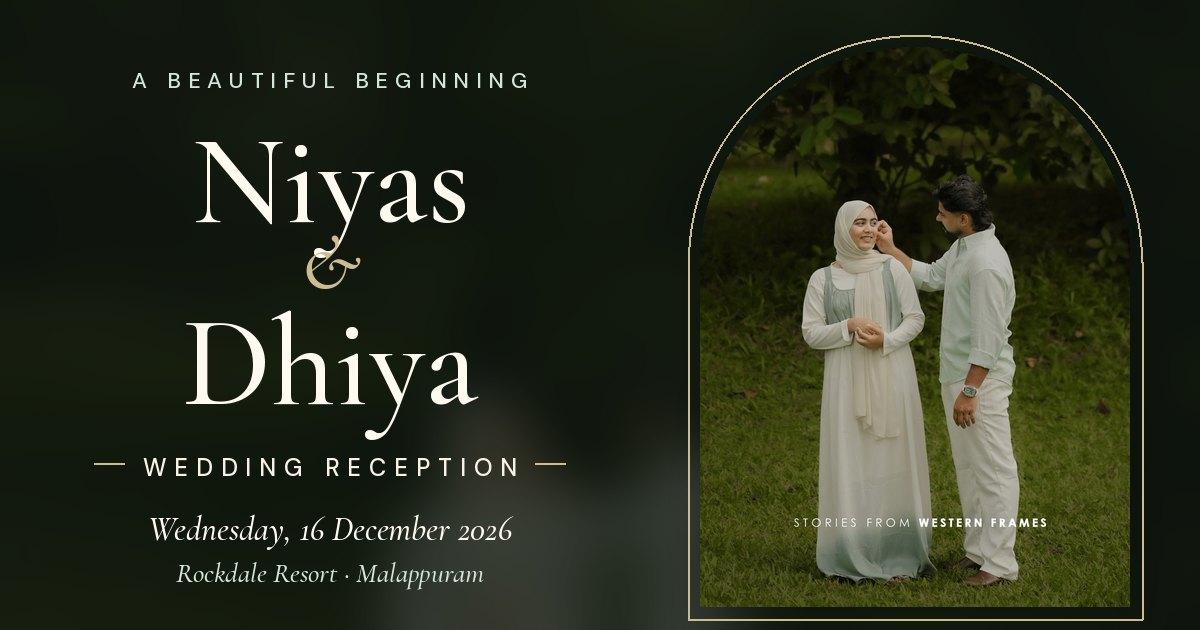
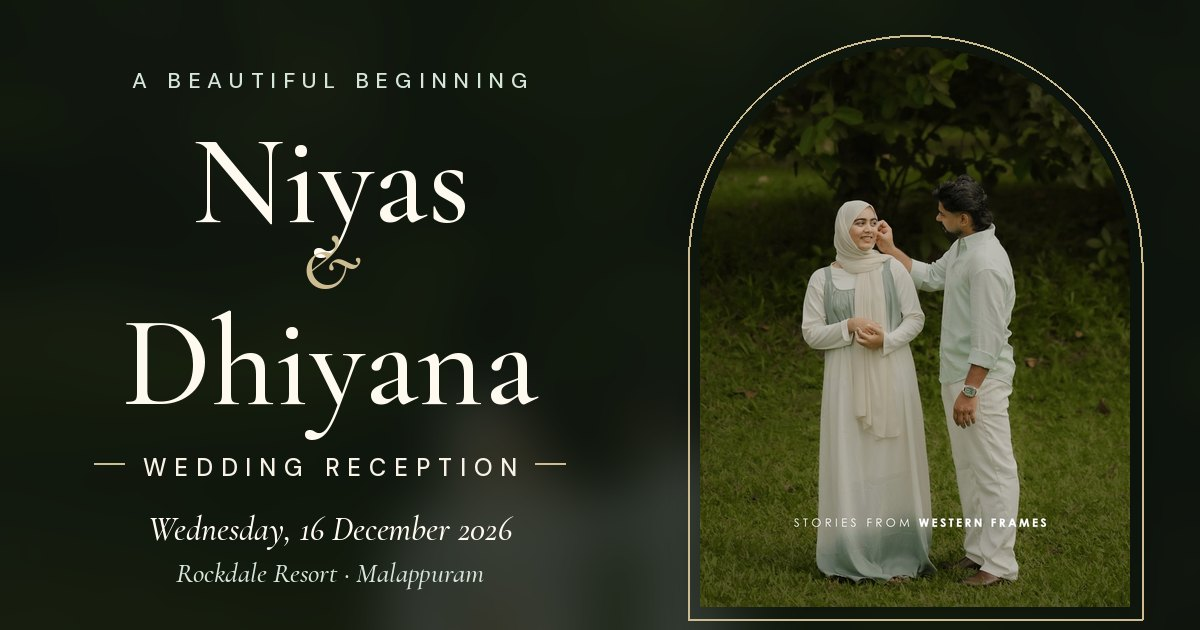
Update wedding invitation

Changed region(s): [[0.0925, 0.4825, 0.4625, 0.6937]]

diff --git a/index.html b/index.html
@@ -5,26 +5,26 @@
   <meta name="viewport" content="width=device-width, initial-scale=1, viewport-fit=cover">
   <meta name="theme-color" content="#F7F1E6">
 
-  <title>Niyas &amp; Dhiya | Wedding Reception</title>
-  <meta name="description" content="Join Niyas and Dhiya as they celebrate their wedding reception at Rockdale Resort, Vadapuram.">
+  <title>Niyas &amp; Dhiyana | Wedding Reception</title>
+  <meta name="description" content="Join Niyas and Dhiyana as they celebrate their wedding reception at Rockdale Resort, Vadapuram.">
 
   <!-- Open Graph / WhatsApp preview (absolute URLs on the live domain) -->
   <meta property="og:type" content="website">
-  <meta property="og:url" content="https://niyas-dhiya.vercel.app/">
-  <link rel="canonical" href="https://niyas-dhiya.vercel.app/">
-  <meta property="og:site_name" content="Niyas &amp; Dhiya">
-  <meta property="og:title" content="Niyas &amp; Dhiya | Wedding Reception">
-  <meta property="og:description" content="Join Niyas and Dhiya as they celebrate their wedding reception at Rockdale Resort, Vadapuram.">
-  <meta property="og:image" content="https://niyas-dhiya.vercel.app/assets/og-image.jpg">
+  <meta property="og:url" content="https://niyas-dhiyana-1.vercel.app/">
+  <link rel="canonical" href="https://niyas-dhiyana-1.vercel.app/">
+  <meta property="og:site_name" content="Niyas &amp; Dhiyana">
+  <meta property="og:title" content="Niyas &amp; Dhiyana | Wedding Reception">
+  <meta property="og:description" content="Join Niyas and Dhiyana as they celebrate their wedding reception at Rockdale Resort, Vadapuram.">
+  <meta property="og:image" content="https://niyas-dhiyana-1.vercel.app/assets/og-image.jpg">
   <meta property="og:image:type" content="image/jpeg">
   <meta property="og:image:width" content="1200">
   <meta property="og:image:height" content="630">
-  <meta property="og:image:alt" content="Niyas and Dhiya beneath a canopy of leaves — Wedding Reception at Rockdale Resort">
+  <meta property="og:image:alt" content="Niyas and Dhiyana beneath a canopy of leaves — Wedding Reception at Rockdale Resort">
   <meta property="og:locale" content="en_IN">
   <meta name="twitter:card" content="summary_large_image">
-  <meta name="twitter:title" content="Niyas &amp; Dhiya | Wedding Reception">
-  <meta name="twitter:description" content="Join Niyas and Dhiya as they celebrate their wedding reception at Rockdale Resort, Vadapuram.">
-  <meta name="twitter:image" content="https://niyas-dhiya.vercel.app/assets/og-image.jpg">
+  <meta name="twitter:title" content="Niyas &amp; Dhiyana | Wedding Reception">
+  <meta name="twitter:description" content="Join Niyas and Dhiyana as they celebrate their wedding reception at Rockdale Resort, Vadapuram.">
+  <meta name="twitter:image" content="https://niyas-dhiyana-1.vercel.app/assets/og-image.jpg">
 
   <link rel="preconnect" href="https://fonts.googleapis.com">
   <link rel="preconnect" href="https://fonts.gstatic.com" crossorigin>
@@ -60,13 +60,13 @@
         <img class="env-pocket" src="assets/opening/envelope.webp" alt="" width="1149" height="2181" fetchpriority="high" decoding="async">
         <div class="env-flap" id="flap">
           <div class="flap-face" aria-hidden="true"></div>
-          <button type="button" class="open-seal" id="open-btn" aria-label="Open the wedding reception invitation of Niyas and Dhiya" aria-describedby="seal-hint">
+          <button type="button" class="open-seal" id="open-btn" aria-label="Open the wedding reception invitation of Niyas and Dhiyana" aria-describedby="seal-hint">
             <span class="seal" aria-hidden="true"><img src="assets/opening/seal.webp" alt="" width="504" height="512"></span>
           </button>
         </div>
       </div>
       <div class="op-text" aria-hidden="true">
-        <p class="op-couple">Niyas <span>&amp;</span> Dhiya</p>
+        <p class="op-couple">Niyas <span>&amp;</span> Dhiyana</p>
       </div>
       <div class="op-text op-text--low">
         <p class="op-invited">You’re Invited</p>
@@ -77,7 +77,7 @@
   </section>
 
   <!-- ============ INVITATION ============ -->
-  <main class="invitation" id="invitation" tabindex="-1" aria-label="Wedding reception invitation of Niyas and Dhiya">
+  <main class="invitation" id="invitation" tabindex="-1" aria-label="Wedding reception invitation of Niyas and Dhiyana">
 
     <!-- Hero: ivory stationery with a botanical garland, chandelier and dressed reception table (as in the original design) -->
     <section class="hero" aria-labelledby="couple-heading">
@@ -92,7 +92,7 @@
         <h1 class="names" id="couple-heading">
           <span class="name reveal reveal--name" style="--d:.4s">Niyas</span>
           <span class="amp reveal" style="--d:.55s"><span class="sr-only">and</span><span aria-hidden="true">&amp;</span></span>
-          <span class="name reveal reveal--name" style="--d:.7s">Dhiya</span>
+          <span class="name reveal reveal--name" style="--d:.7s">Dhiyana</span>
         </h1>
         <p class="hero-function reveal" style="--d:.9s">Wedding Reception</p>
         <p class="hero-quote reveal" style="--d:1.05s">“Together is a beautiful place to be.”</p>
@@ -130,7 +130,7 @@
 
           <article class="family-card reveal" style="--d:.3s" aria-labelledby="bride-name">
             <p class="family-role">The Bride</p>
-            <h3 class="family-name" id="bride-name">Dhiya</h3>
+            <h3 class="family-name" id="bride-name">Dhiyana</h3>
             <p class="family-rel">Daughter of</p>
             <p class="family-parents"><span class="nw">Mr. Abdul Basheer</span> <span class="amp-s">&amp;</span> <span class="nw">Mrs. Mini</span></p>
             <span class="rule" aria-hidden="true"></span>
@@ -152,17 +152,17 @@
         <div class="story-grid">
           <figure class="story-lead reveal reveal--photo">
             <div class="frame" data-parallax="0.06">
-              <img src="assets/couple/WFP02841_1_resized.jpg" srcset="assets/couple/sm/WFP02841_1_resized.jpg 640w, assets/couple/WFP02841_1_resized.jpg 1280w" sizes="(min-width: 900px) 46vw, 92vw" width="1280" height="1920" loading="lazy" decoding="async" alt="Dhiya laughing as she sits on a grassy slope while Niyas leans in close">
+              <img src="assets/couple/WFP02841_1_resized.jpg" srcset="assets/couple/sm/WFP02841_1_resized.jpg 640w, assets/couple/WFP02841_1_resized.jpg 1280w" sizes="(min-width: 900px) 46vw, 92vw" width="1280" height="1920" loading="lazy" decoding="async" alt="Dhiyana laughing as she sits on a grassy slope while Niyas leans in close">
             </div>
           </figure>
           <figure class="story-a reveal reveal--photo" style="--d:.1s">
             <div class="frame">
-              <img src="assets/couple/sm/WFP02765_resized.jpg" srcset="assets/couple/sm/WFP02765_resized.jpg 640w, assets/couple/WFP02765_resized.jpg 1280w" sizes="(min-width: 900px) 24vw, 45vw" width="640" height="960" loading="lazy" decoding="async" alt="Niyas and Dhiya running hand in hand across the lawn">
+              <img src="assets/couple/sm/WFP02765_resized.jpg" srcset="assets/couple/sm/WFP02765_resized.jpg 640w, assets/couple/WFP02765_resized.jpg 1280w" sizes="(min-width: 900px) 24vw, 45vw" width="640" height="960" loading="lazy" decoding="async" alt="Niyas and Dhiyana running hand in hand across the lawn">
             </div>
           </figure>
           <figure class="story-b reveal reveal--photo" style="--d:.2s">
             <div class="frame">
-              <img src="assets/couple/sm/WFP02673_resized.jpg" srcset="assets/couple/sm/WFP02673_resized.jpg 640w, assets/couple/WFP02673_resized.jpg 1280w" sizes="(min-width: 900px) 24vw, 45vw" width="640" height="960" loading="lazy" decoding="async" alt="Niyas and Dhiya in a warm embrace beneath the trees">
+              <img src="assets/couple/sm/WFP02673_resized.jpg" srcset="assets/couple/sm/WFP02673_resized.jpg 640w, assets/couple/WFP02673_resized.jpg 1280w" sizes="(min-width: 900px) 24vw, 45vw" width="640" height="960" loading="lazy" decoding="async" alt="Niyas and Dhiyana in a warm embrace beneath the trees">
             </div>
           </figure>
           <p class="story-caption reveal" style="--d:.15s">Hand in hand, wherever the road may lead.</p>
@@ -299,87 +299,87 @@
         <ul class="gallery-grid" id="gallery-grid" role="list">
         <li class="g-item reveal" style="--d:0.00s">
           <button type="button" class="g-btn" data-index="0" data-full="assets/couple/WFP03053_resized.jpg" aria-label="Open photo 1 of 17 in full screen">
-            <img src="assets/couple/sm/WFP03053_resized.jpg" srcset="assets/couple/sm/WFP03053_resized.jpg 640w, assets/couple/WFP03053_resized.jpg 1280w" sizes="(min-width: 1180px) 370px, (min-width: 760px) 31vw, 46vw" width="640" height="960" loading="lazy" decoding="async" alt="Niyas seated on the mint-green vintage scooter with Dhiya leaning in beside him, both smiling at the camera">
+            <img src="assets/couple/sm/WFP03053_resized.jpg" srcset="assets/couple/sm/WFP03053_resized.jpg 640w, assets/couple/WFP03053_resized.jpg 1280w" sizes="(min-width: 1180px) 370px, (min-width: 760px) 31vw, 46vw" width="640" height="960" loading="lazy" decoding="async" alt="Niyas seated on the mint-green vintage scooter with Dhiyana leaning in beside him, both smiling at the camera">
           </button>
         </li>
         <li class="g-item reveal" style="--d:0.08s">
           <button type="button" class="g-btn" data-index="1" data-full="assets/couple/WFP02765_resized.jpg" aria-label="Open photo 2 of 17 in full screen">
-            <img src="assets/couple/sm/WFP02765_resized.jpg" srcset="assets/couple/sm/WFP02765_resized.jpg 640w, assets/couple/WFP02765_resized.jpg 1280w" sizes="(min-width: 1180px) 370px, (min-width: 760px) 31vw, 46vw" width="640" height="960" loading="lazy" decoding="async" alt="Niyas and Dhiya running hand in hand across the grass">
+            <img src="assets/couple/sm/WFP02765_resized.jpg" srcset="assets/couple/sm/WFP02765_resized.jpg 640w, assets/couple/WFP02765_resized.jpg 1280w" sizes="(min-width: 1180px) 370px, (min-width: 760px) 31vw, 46vw" width="640" height="960" loading="lazy" decoding="async" alt="Niyas and Dhiyana running hand in hand across the grass">
           </button>
         </li>
         <li class="g-item reveal" style="--d:0.16s">
           <button type="button" class="g-btn" data-index="2" data-full="assets/couple/WFP03366_resized.jpg" aria-label="Open photo 3 of 17 in full screen">
-            <img src="assets/couple/sm/WFP03366_resized.jpg" srcset="assets/couple/sm/WFP03366_resized.jpg 640w, assets/couple/WFP03366_resized.jpg 1280w" sizes="(min-width: 1180px) 370px, (min-width: 760px) 31vw, 46vw" width="640" height="960" loading="lazy" decoding="async" alt="Niyas and Dhiya touching foreheads over the scooter’s handlebars on a palm-lined path">
+            <img src="assets/couple/sm/WFP03366_resized.jpg" srcset="assets/couple/sm/WFP03366_resized.jpg 640w, assets/couple/WFP03366_resized.jpg 1280w" sizes="(min-width: 1180px) 370px, (min-width: 760px) 31vw, 46vw" width="640" height="960" loading="lazy" decoding="async" alt="Niyas and Dhiyana touching foreheads over the scooter’s handlebars on a palm-lined path">
           </button>
         </li>
         <li class="g-item reveal" style="--d:0.00s">
           <button type="button" class="g-btn" data-index="3" data-full="assets/couple/WFP02511_resized.jpg" aria-label="Open photo 4 of 17 in full screen">
-            <img src="assets/couple/sm/WFP02511_resized.jpg" srcset="assets/couple/sm/WFP02511_resized.jpg 640w, assets/couple/WFP02511_resized.jpg 1280w" sizes="(min-width: 1180px) 370px, (min-width: 760px) 31vw, 46vw" width="640" height="960" loading="lazy" decoding="async" alt="Niyas and Dhiya standing hand in hand on the lawn, smiling at the camera">
+            <img src="assets/couple/sm/WFP02511_resized.jpg" srcset="assets/couple/sm/WFP02511_resized.jpg 640w, assets/couple/WFP02511_resized.jpg 1280w" sizes="(min-width: 1180px) 370px, (min-width: 760px) 31vw, 46vw" width="640" height="960" loading="lazy" decoding="async" alt="Niyas and Dhiyana standing hand in hand on the lawn, smiling at the camera">
           </button>
         </li>
         <li class="g-item reveal" style="--d:0.08s">
           <button type="button" class="g-btn" data-index="4" data-full="assets/couple/WFP02665_resized.jpg" aria-label="Open photo 5 of 17 in full screen">
-            <img src="assets/couple/sm/WFP02665_resized.jpg" srcset="assets/couple/sm/WFP02665_resized.jpg 640w, assets/couple/WFP02665_resized.jpg 1280w" sizes="(min-width: 1180px) 370px, (min-width: 760px) 31vw, 46vw" width="640" height="960" loading="lazy" decoding="async" alt="Niyas gently adjusting Dhiya’s scarf beneath a canopy of leaves">
+            <img src="assets/couple/sm/WFP02665_resized.jpg" srcset="assets/couple/sm/WFP02665_resized.jpg 640w, assets/couple/WFP02665_resized.jpg 1280w" sizes="(min-width: 1180px) 370px, (min-width: 760px) 31vw, 46vw" width="640" height="960" loading="lazy" decoding="async" alt="Niyas gently adjusting Dhiyana’s scarf beneath a canopy of leaves">
           </button>
         </li>
         <li class="g-item reveal" style="--d:0.16s">
           <button type="button" class="g-btn" data-index="5" data-full="assets/couple/WFP03204_resized.jpg" aria-label="Open photo 6 of 17 in full screen">
-            <img src="assets/couple/sm/WFP03204_resized.jpg" srcset="assets/couple/sm/WFP03204_resized.jpg 640w, assets/couple/WFP03204_resized.jpg 1280w" sizes="(min-width: 1180px) 370px, (min-width: 760px) 31vw, 46vw" width="640" height="960" loading="lazy" decoding="async" alt="Dhiya seated on the scooter, smiling up at Niyas as he stands on the laterite steps">
+            <img src="assets/couple/sm/WFP03204_resized.jpg" srcset="assets/couple/sm/WFP03204_resized.jpg 640w, assets/couple/WFP03204_resized.jpg 1280w" sizes="(min-width: 1180px) 370px, (min-width: 760px) 31vw, 46vw" width="640" height="960" loading="lazy" decoding="async" alt="Dhiyana seated on the scooter, smiling up at Niyas as he stands on the laterite steps">
           </button>
         </li>
         <li class="g-item reveal" style="--d:0.00s">
           <button type="button" class="g-btn" data-index="6" data-full="assets/couple/WFP02483_resized.jpg" aria-label="Open photo 7 of 17 in full screen">
-            <img src="assets/couple/sm/WFP02483_resized.jpg" srcset="assets/couple/sm/WFP02483_resized.jpg 640w, assets/couple/WFP02483_resized.jpg 1280w" sizes="(min-width: 1180px) 370px, (min-width: 760px) 31vw, 46vw" width="640" height="960" loading="lazy" decoding="async" alt="Niyas and Dhiya holding hands and smiling playfully at the camera">
+            <img src="assets/couple/sm/WFP02483_resized.jpg" srcset="assets/couple/sm/WFP02483_resized.jpg 640w, assets/couple/WFP02483_resized.jpg 1280w" sizes="(min-width: 1180px) 370px, (min-width: 760px) 31vw, 46vw" width="640" height="960" loading="lazy" decoding="async" alt="Niyas and Dhiyana holding hands and smiling playfully at the camera">
           </button>
         </li>
         <li class="g-item reveal" style="--d:0.08s">
           <button type="button" class="g-btn" data-index="7" data-full="assets/couple/WFP02832_resized.jpg" aria-label="Open photo 8 of 17 in full screen">
-            <img src="assets/couple/sm/WFP02832_resized.jpg" srcset="assets/couple/sm/WFP02832_resized.jpg 640w, assets/couple/WFP02832_resized.jpg 1280w" sizes="(min-width: 1180px) 370px, (min-width: 760px) 31vw, 46vw" width="640" height="960" loading="lazy" decoding="async" alt="Niyas leaning down to touch foreheads with Dhiya as she sits on a grassy slope">
+            <img src="assets/couple/sm/WFP02832_resized.jpg" srcset="assets/couple/sm/WFP02832_resized.jpg 640w, assets/couple/WFP02832_resized.jpg 1280w" sizes="(min-width: 1180px) 370px, (min-width: 760px) 31vw, 46vw" width="640" height="960" loading="lazy" decoding="async" alt="Niyas leaning down to touch foreheads with Dhiyana as she sits on a grassy slope">
           </button>
         </li>
         <li class="g-item reveal" style="--d:0.16s">
           <button type="button" class="g-btn" data-index="8" data-full="assets/couple/WFP03287_resized.jpg" aria-label="Open photo 9 of 17 in full screen">
-            <img src="assets/couple/sm/WFP03287_resized.jpg" srcset="assets/couple/sm/WFP03287_resized.jpg 640w, assets/couple/WFP03287_resized.jpg 1280w" sizes="(min-width: 1180px) 370px, (min-width: 760px) 31vw, 46vw" width="640" height="960" loading="lazy" decoding="async" alt="Niyas holding Dhiya’s hand as she steps down the laterite steps, the scooter parked in front">
+            <img src="assets/couple/sm/WFP03287_resized.jpg" srcset="assets/couple/sm/WFP03287_resized.jpg 640w, assets/couple/WFP03287_resized.jpg 1280w" sizes="(min-width: 1180px) 370px, (min-width: 760px) 31vw, 46vw" width="640" height="960" loading="lazy" decoding="async" alt="Niyas holding Dhiyana’s hand as she steps down the laterite steps, the scooter parked in front">
           </button>
         </li>
         <li class="g-item reveal" style="--d:0.00s">
           <button type="button" class="g-btn" data-index="9" data-full="assets/couple/WFP02573_resized.jpg" aria-label="Open photo 10 of 17 in full screen">
-            <img src="assets/couple/sm/WFP02573_resized.jpg" srcset="assets/couple/sm/WFP02573_resized.jpg 640w, assets/couple/WFP02573_resized.jpg 1280w" sizes="(min-width: 1180px) 370px, (min-width: 760px) 31vw, 46vw" width="640" height="960" loading="lazy" decoding="async" alt="Dhiya walking ahead and smiling at the camera while Niyas follows behind">
+            <img src="assets/couple/sm/WFP02573_resized.jpg" srcset="assets/couple/sm/WFP02573_resized.jpg 640w, assets/couple/WFP02573_resized.jpg 1280w" sizes="(min-width: 1180px) 370px, (min-width: 760px) 31vw, 46vw" width="640" height="960" loading="lazy" decoding="async" alt="Dhiyana walking ahead and smiling at the camera while Niyas follows behind">
           </button>
         </li>
         <li class="g-item reveal" style="--d:0.08s">
           <button type="button" class="g-btn" data-index="10" data-full="assets/couple/WFP03408_resized.jpg" aria-label="Open photo 11 of 17 in full screen">
-            <img src="assets/couple/sm/WFP03408_resized.jpg" srcset="assets/couple/sm/WFP03408_resized.jpg 640w, assets/couple/WFP03408_resized.jpg 1280w" sizes="(min-width: 1180px) 370px, (min-width: 760px) 31vw, 46vw" width="640" height="960" loading="lazy" decoding="async" alt="Niyas laughing on the scooter as Dhiya playfully pushes it from behind">
+            <img src="assets/couple/sm/WFP03408_resized.jpg" srcset="assets/couple/sm/WFP03408_resized.jpg 640w, assets/couple/WFP03408_resized.jpg 1280w" sizes="(min-width: 1180px) 370px, (min-width: 760px) 31vw, 46vw" width="640" height="960" loading="lazy" decoding="async" alt="Niyas laughing on the scooter as Dhiyana playfully pushes it from behind">
           </button>
         </li>
         <li class="g-item reveal" style="--d:0.16s">
           <button type="button" class="g-btn" data-index="11" data-full="assets/couple/WFP02734_resized.jpg" aria-label="Open photo 12 of 17 in full screen">
-            <img src="assets/couple/sm/WFP02734_resized.jpg" srcset="assets/couple/sm/WFP02734_resized.jpg 640w, assets/couple/WFP02734_resized.jpg 1280w" sizes="(min-width: 1180px) 370px, (min-width: 760px) 31vw, 46vw" width="640" height="960" loading="lazy" decoding="async" alt="Niyas walking behind Dhiya with his hands on her shoulders, both laughing">
+            <img src="assets/couple/sm/WFP02734_resized.jpg" srcset="assets/couple/sm/WFP02734_resized.jpg 640w, assets/couple/WFP02734_resized.jpg 1280w" sizes="(min-width: 1180px) 370px, (min-width: 760px) 31vw, 46vw" width="640" height="960" loading="lazy" decoding="async" alt="Niyas walking behind Dhiyana with his hands on her shoulders, both laughing">
           </button>
         </li>
         <li class="g-item reveal" style="--d:0.00s">
           <button type="button" class="g-btn" data-index="12" data-full="assets/couple/WFP02426_resized.jpg" aria-label="Open photo 13 of 17 in full screen">
-            <img src="assets/couple/sm/WFP02426_resized.jpg" srcset="assets/couple/sm/WFP02426_resized.jpg 640w, assets/couple/WFP02426_resized.jpg 1280w" sizes="(min-width: 1180px) 370px, (min-width: 760px) 31vw, 46vw" width="640" height="960" loading="lazy" decoding="async" alt="Niyas leading Dhiya by the hand across the lawn among tall palms">
+            <img src="assets/couple/sm/WFP02426_resized.jpg" srcset="assets/couple/sm/WFP02426_resized.jpg 640w, assets/couple/WFP02426_resized.jpg 1280w" sizes="(min-width: 1180px) 370px, (min-width: 760px) 31vw, 46vw" width="640" height="960" loading="lazy" decoding="async" alt="Niyas leading Dhiyana by the hand across the lawn among tall palms">
           </button>
         </li>
         <li class="g-item reveal" style="--d:0.08s">
           <button type="button" class="g-btn" data-index="13" data-full="assets/couple/WFP03058_resized.jpg" aria-label="Open photo 14 of 17 in full screen">
-            <img src="assets/couple/sm/WFP03058_resized.jpg" srcset="assets/couple/sm/WFP03058_resized.jpg 640w, assets/couple/WFP03058_resized.jpg 1280w" sizes="(min-width: 1180px) 370px, (min-width: 760px) 31vw, 46vw" width="640" height="960" loading="lazy" decoding="async" alt="Niyas sitting on the scooter with a helmet as Dhiya leans in towards him">
+            <img src="assets/couple/sm/WFP03058_resized.jpg" srcset="assets/couple/sm/WFP03058_resized.jpg 640w, assets/couple/WFP03058_resized.jpg 1280w" sizes="(min-width: 1180px) 370px, (min-width: 760px) 31vw, 46vw" width="640" height="960" loading="lazy" decoding="async" alt="Niyas sitting on the scooter with a helmet as Dhiyana leans in towards him">
           </button>
         </li>
         <li class="g-item reveal" style="--d:0.16s">
           <button type="button" class="g-btn" data-index="14" data-full="assets/couple/WFP02673_resized.jpg" aria-label="Open photo 15 of 17 in full screen">
-            <img src="assets/couple/sm/WFP02673_resized.jpg" srcset="assets/couple/sm/WFP02673_resized.jpg 640w, assets/couple/WFP02673_resized.jpg 1280w" sizes="(min-width: 1180px) 370px, (min-width: 760px) 31vw, 46vw" width="640" height="960" loading="lazy" decoding="async" alt="Niyas and Dhiya in a warm embrace under the trees">
+            <img src="assets/couple/sm/WFP02673_resized.jpg" srcset="assets/couple/sm/WFP02673_resized.jpg 640w, assets/couple/WFP02673_resized.jpg 1280w" sizes="(min-width: 1180px) 370px, (min-width: 760px) 31vw, 46vw" width="640" height="960" loading="lazy" decoding="async" alt="Niyas and Dhiyana in a warm embrace under the trees">
           </button>
         </li>
         <li class="g-item reveal" style="--d:0.00s">
           <button type="button" class="g-btn" data-index="15" data-full="assets/couple/WFP02451_resized.jpg" aria-label="Open photo 16 of 17 in full screen">
-            <img src="assets/couple/sm/WFP02451_resized.jpg" srcset="assets/couple/sm/WFP02451_resized.jpg 640w, assets/couple/WFP02451_resized.jpg 1280w" sizes="(min-width: 1180px) 370px, (min-width: 760px) 31vw, 46vw" width="640" height="960" loading="lazy" decoding="async" alt="Dhiya and Niyas holding hands on the lawn, Dhiya glancing at the camera">
+            <img src="assets/couple/sm/WFP02451_resized.jpg" srcset="assets/couple/sm/WFP02451_resized.jpg 640w, assets/couple/WFP02451_resized.jpg 1280w" sizes="(min-width: 1180px) 370px, (min-width: 760px) 31vw, 46vw" width="640" height="960" loading="lazy" decoding="async" alt="Dhiyana and Niyas holding hands on the lawn, Dhiyana glancing at the camera">
           </button>
         </li>
         <li class="g-item reveal" style="--d:0.08s">
           <button type="button" class="g-btn" data-index="16" data-full="assets/couple/WFP02841_1_resized.jpg" aria-label="Open photo 17 of 17 in full screen">
-            <img src="assets/couple/sm/WFP02841_1_resized.jpg" srcset="assets/couple/sm/WFP02841_1_resized.jpg 640w, assets/couple/WFP02841_1_resized.jpg 1280w" sizes="(min-width: 1180px) 370px, (min-width: 760px) 31vw, 46vw" width="640" height="960" loading="lazy" decoding="async" alt="Dhiya laughing on the grass as Niyas leans in close">
+            <img src="assets/couple/sm/WFP02841_1_resized.jpg" srcset="assets/couple/sm/WFP02841_1_resized.jpg 640w, assets/couple/WFP02841_1_resized.jpg 1280w" sizes="(min-width: 1180px) 370px, (min-width: 760px) 31vw, 46vw" width="640" height="960" loading="lazy" decoding="async" alt="Dhiyana laughing on the grass as Niyas leans in close">
           </button>
         </li>
         </ul>
@@ -390,15 +390,15 @@
     <section class="closing" id="closing" aria-labelledby="closing-heading">
       <div class="closing-bg" aria-hidden="true"><img src="assets/couple/sm/WFP02665_resized.jpg" alt="" width="640" height="960" loading="lazy" decoding="async"></div>
       <figure class="closing-photo" data-parallax="0.05">
-        <img src="assets/couple/WFP02665_resized.jpg" srcset="assets/couple/sm/WFP02665_resized.jpg 640w, assets/couple/WFP02665_resized.jpg 1280w" sizes="(min-aspect-ratio: 1/1) and (min-width: 700px) 60vh, 150vw" width="1280" height="1920" loading="lazy" decoding="async" alt="Niyas gently adjusting Dhiya’s scarf as they stand together beneath a canopy of leaves">
+        <img src="assets/couple/WFP02665_resized.jpg" srcset="assets/couple/sm/WFP02665_resized.jpg 640w, assets/couple/WFP02665_resized.jpg 1280w" sizes="(min-aspect-ratio: 1/1) and (min-width: 700px) 60vh, 150vw" width="1280" height="1920" loading="lazy" decoding="async" alt="Niyas gently adjusting Dhiyana’s scarf as they stand together beneath a canopy of leaves">
       </figure>
       <div class="closing-shade" aria-hidden="true"></div>
       <div class="closing-content">
-        <h2 class="closing-title reveal" id="closing-heading"><span class="closing-pre">With Love,</span> <span class="closing-names">Niyas &amp; Dhiya</span></h2>
+        <h2 class="closing-title reveal" id="closing-heading"><span class="closing-pre">With Love,</span> <span class="closing-names">Niyas &amp; Dhiyana</span></h2>
         <p class="closing-text reveal" style="--d:.15s">Your presence and blessings will make our celebration even more special.</p>
         <img class="sprig sprig--light reveal" style="--d:.25s" src="assets/art/divider-light.svg" alt="" width="240" height="40" aria-hidden="true" loading="lazy">
         <p class="closing-regards reveal" style="--d:.3s">With Love &amp; Warm Regards</p>
-        <p class="closing-families reveal" style="--d:.4s">Families of Niyas &amp; Dhiya</p>
+        <p class="closing-families reveal" style="--d:.4s">Families of Niyas &amp; Dhiyana</p>
       </div>
     </section>
 

diff --git a/script.js b/script.js
@@ -1,5 +1,5 @@
 /* ==========================================================
-   Niyas & Dhiya — Wedding Reception
+   Niyas & Dhiyana — Wedding Reception
    Envelope opening · music · countdown · calendar · reveals · gallery lightbox
    ========================================================== */
 
@@ -11,7 +11,7 @@
    `rsvp.endpoint`: paste the Google Apps Script Web App URL here (see google-apps-script/SETUP.txt).
    It looks like https://script.google.com/macros/s/XXXXXXXX/exec */
 const CONFIG = {
-  couple: { groom: 'Niyas', bride: 'Dhiya' },
+  couple: { groom: 'Niyas', bride: 'Dhiyana' },
   event: {
     name: 'Wedding Reception',
     date: '2026-12-16',          // Wednesday, 16 December 2026
@@ -222,7 +222,7 @@ const CONFIG = {
     btn.addEventListener('click', () => {
       const { groom, bride } = CONFIG.couple;
       const ics = [
-        'BEGIN:VCALENDAR', 'VERSION:2.0', 'PRODID:-//Niyas & Dhiya//Wedding Reception//EN', 'CALSCALE:GREGORIAN', 'METHOD:PUBLISH',
+        'BEGIN:VCALENDAR', 'VERSION:2.0', 'PRODID:-//Niyas & Dhiyana//Wedding Reception//EN', 'CALSCALE:GREGORIAN', 'METHOD:PUBLISH',
         'BEGIN:VEVENT',
         `UID:reception-niyas-dhiya-${utc(START)}@invitation`,
         `DTSTAMP:${utc(new Date())}`,

diff --git a/style.css b/style.css
@@ -1,5 +1,5 @@
 /* ==========================================================
-   Niyas & Dhiya — Wedding Reception
+   Niyas & Dhiyana — Wedding Reception
    Vintage mint-scooter romance · ivory & sage stationery
    ========================================================== */
 :root {
